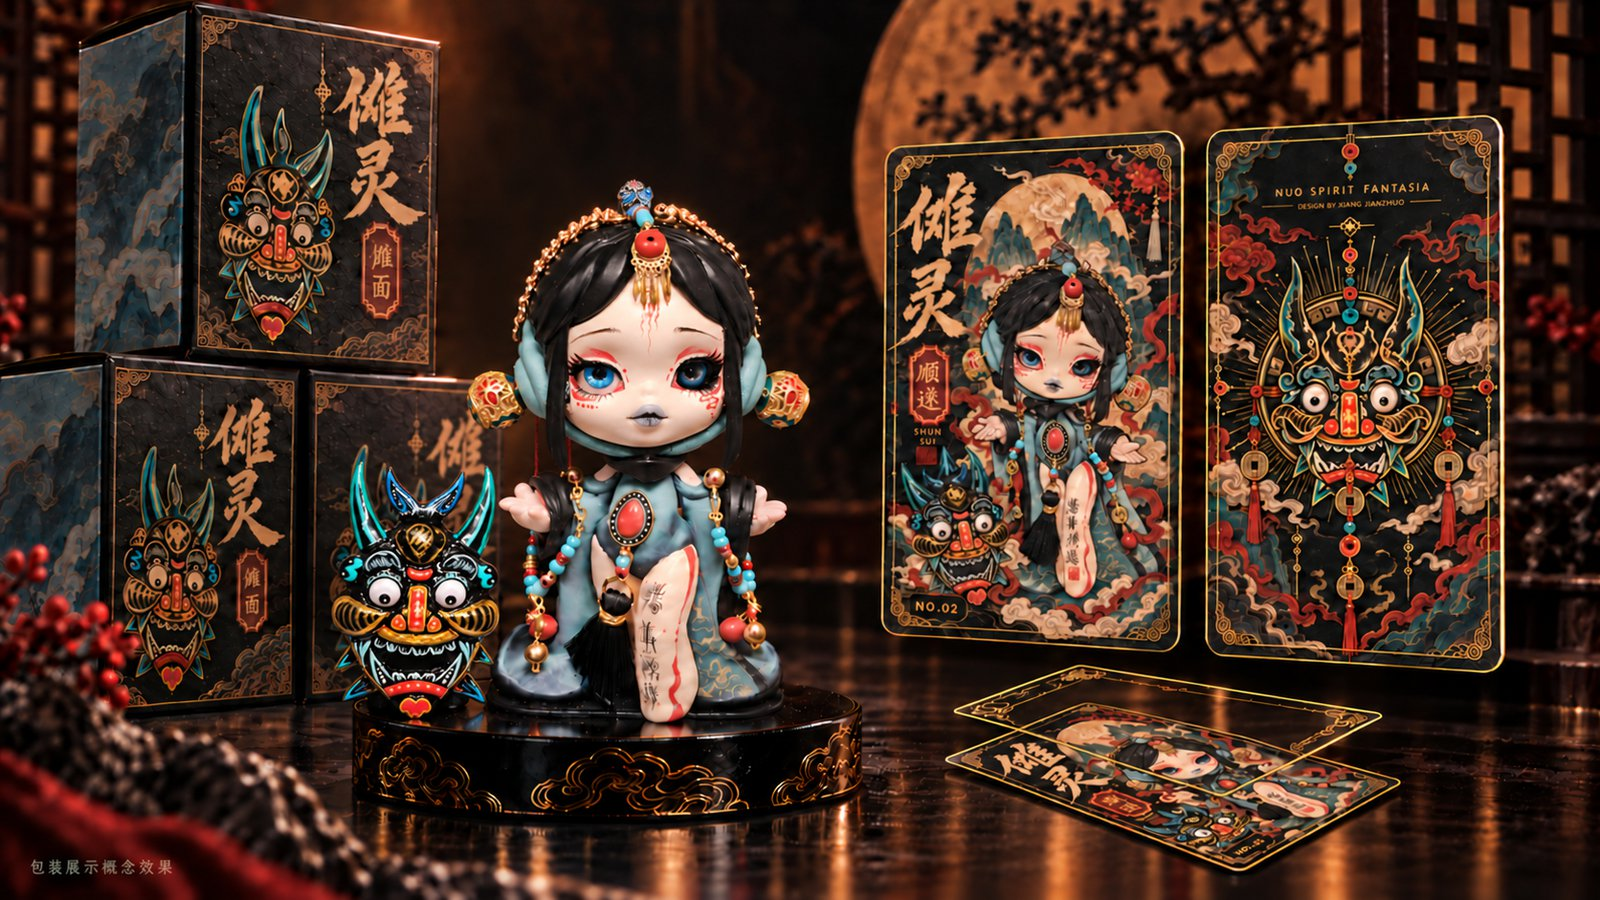
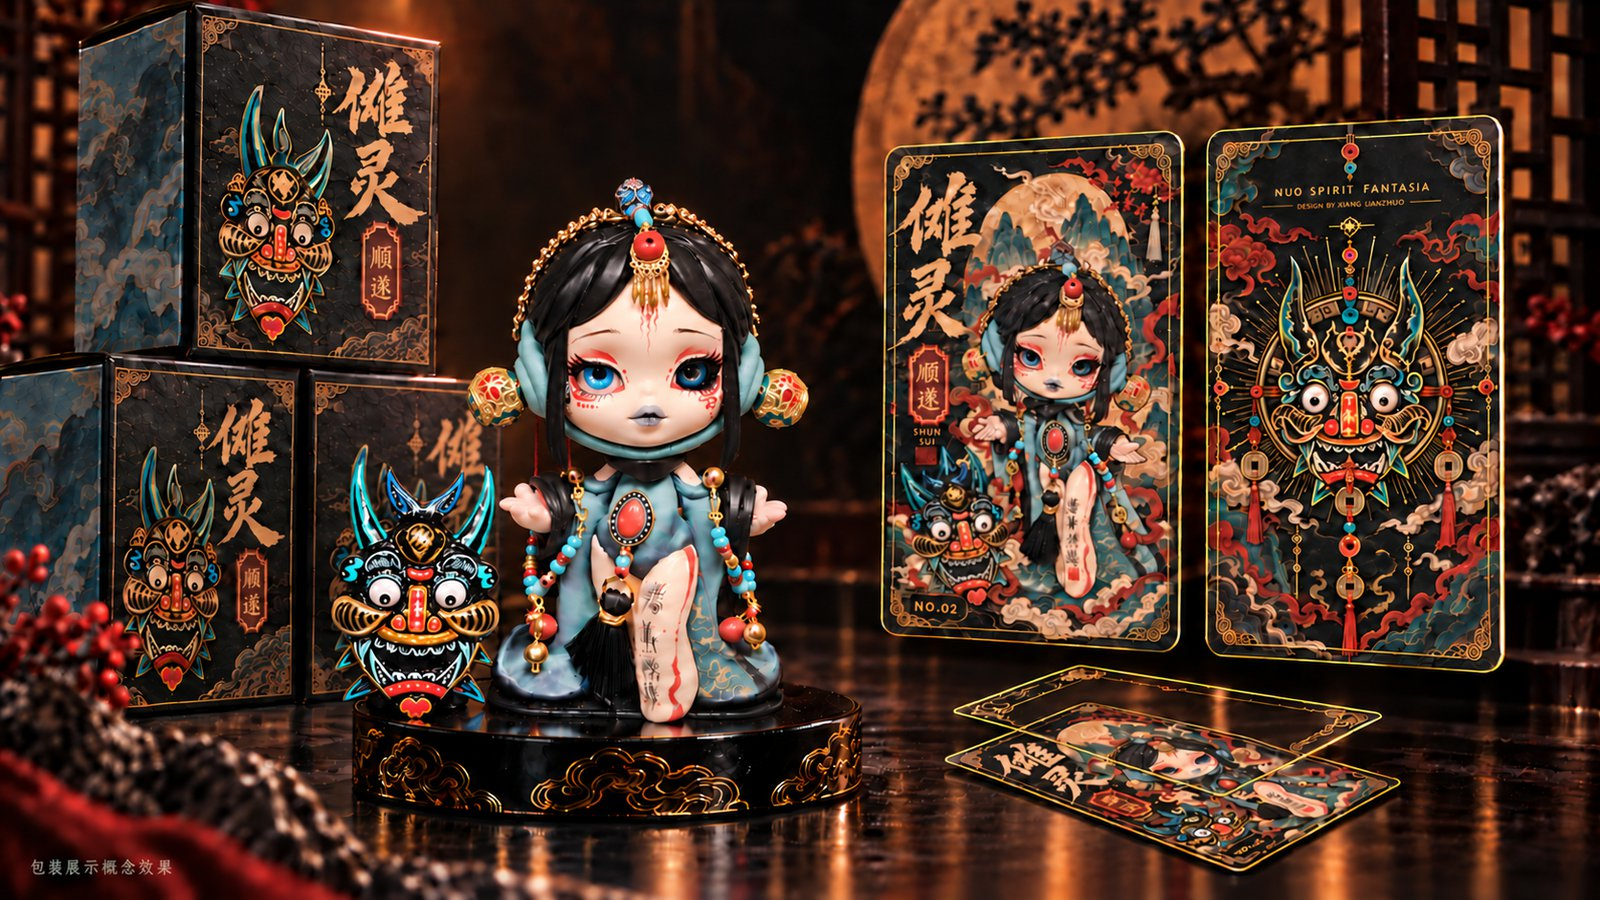
08 节面具摘下版换整合稿（盒标签改「顺遂」），与佩戴版成对一致

diff --git a/nuoling.html b/nuoling.html
@@ -331,7 +331,7 @@
   </div>
   <div class="bleed-cap">顺遂 · 身份卡 NO.02 —— 正面（“傩灵”题字 / “顺遂”印）· 背面（傩面徽记 / NUO SPIRIT FANTASIA）</div>
   <div class="bleed" data-reveal style="margin-top:56px">
-    <img src="assets/nuoling/nuo2-final2.jpg?v=20260918" alt="顺遂 · 面具摘下后的姿态" loading="lazy">
+    <img src="assets/nuoling/nuo2-final2.jpg?v=20260919" alt="顺遂 · 面具摘下后的姿态" loading="lazy">
   </div>
   <div class="bleed-cap">面具摘下 —— 兽面取下后可独立摆放，验证磁吸可拆结构（与下图同场景对照）</div>
   <div class="bleed" data-reveal style="margin-top:56px">
